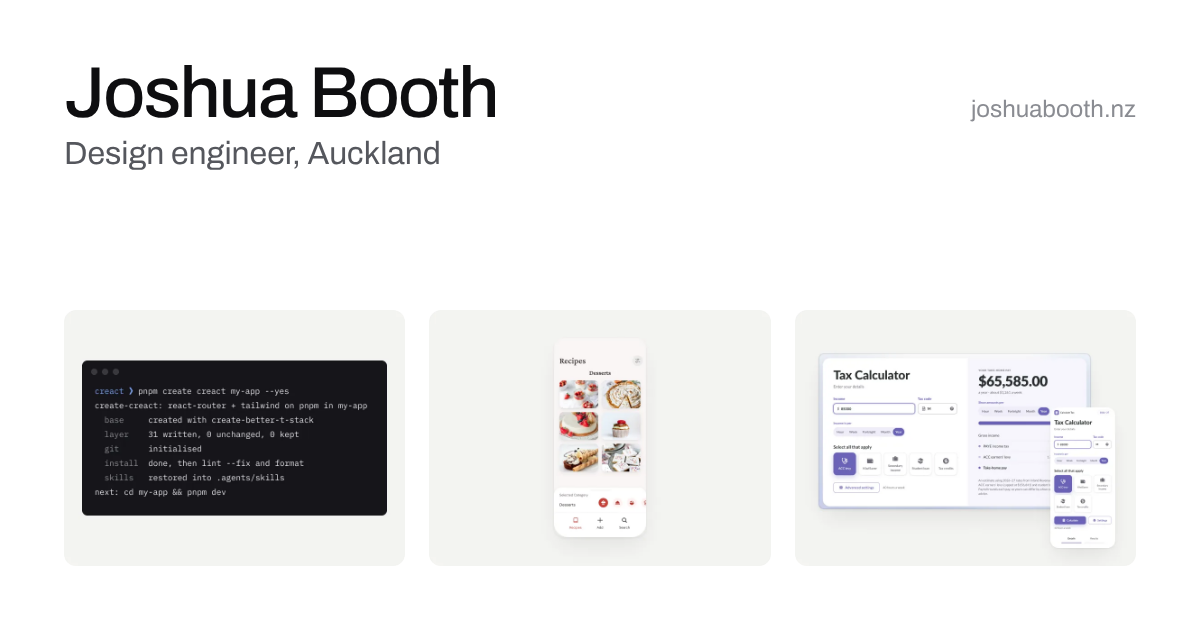
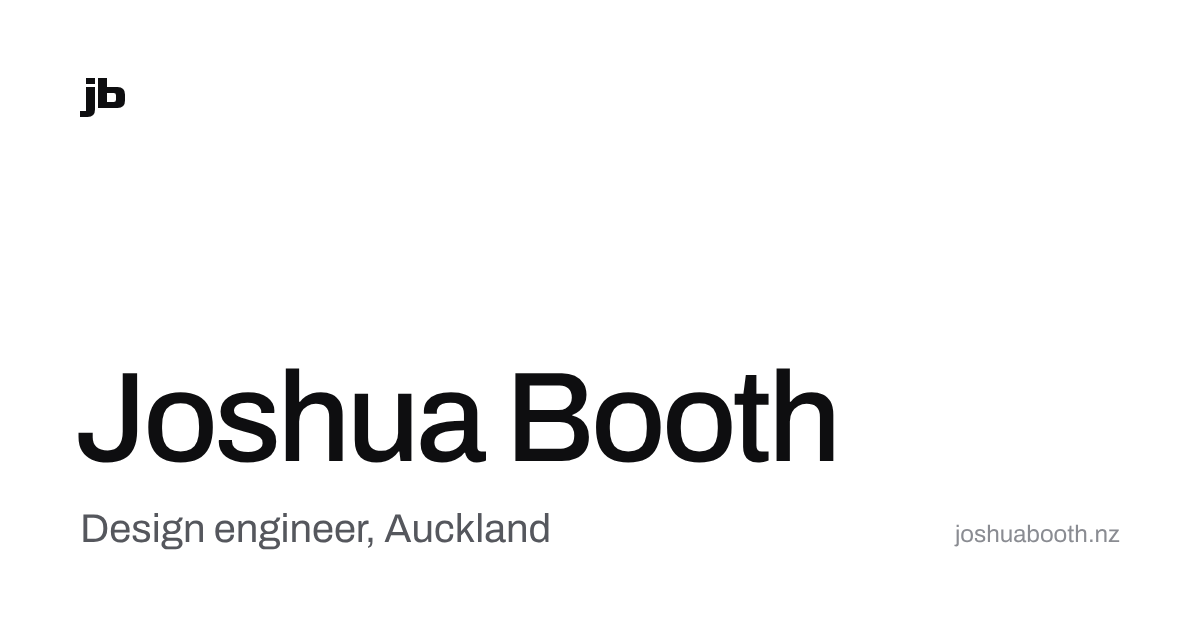
💄 make the redesign's share card type only
Josh preferred the name and role set large on white, with the jb mark,
over the version with three project pictures.

Claude-Session: https://claude.ai/code/session_01VTjs9TEwzoGGQgSHSXfGtF

diff --git a/scripts/og/og-white.html b/scripts/og/og-white.html
@@ -8,8 +8,8 @@
       href="https://fonts.googleapis.com/css2?family=Archivo:wght@400;500&display=block"
     />
     <style>
-      /* The redesign's share card: name, role and three project mats, in the
-         colours of shared/ui/white-look.ts */
+      /* The redesign's share card: the jb mark, then the name and role set
+         large, in the colours of shared/ui/white-look.ts */
       html,
       body {
         margin: 0;
@@ -20,7 +20,7 @@
         box-sizing: border-box;
         width: 1200px;
         height: 630px;
-        padding: 56px 64px 64px;
+        padding: 72px 80px 80px;
         display: flex;
         flex-direction: column;
         justify-content: space-between;
@@ -28,23 +28,30 @@
         color: #0e0e10;
       }
 
-      .top {
+      .mark {
+        display: block;
+        width: 48px;
+        height: 48px;
+        fill: #0e0e10;
+      }
+
+      h1 {
+        margin: 0 0 0 -6px;
+        font-size: 128px;
+        font-weight: 500;
+        line-height: 1;
+        letter-spacing: -0.03em;
+      }
+
+      .foot {
+        margin-top: 24px;
         display: flex;
         justify-content: space-between;
         align-items: baseline;
       }
 
-      h1 {
-        margin: 0;
-        font-size: 72px;
-        font-weight: 500;
-        line-height: 1.05;
-        letter-spacing: -0.025em;
-      }
-
       .role {
-        margin: 4px 0 0;
-        font-size: 32px;
+        font-size: 40px;
         color: #55575d;
       }
 
@@ -52,40 +59,29 @@
         font-size: 24px;
         color: #8a8c92;
       }
-
-      .mats {
-        display: grid;
-        grid-template-columns: repeat(3, 1fr);
-        gap: 24px;
-      }
-
-      .mats img {
-        display: block;
-        width: 100%;
-        aspect-ratio: 756 / 568;
-        border-radius: 12px;
-      }
     </style>
   </head>
   <body>
     <div class="card">
-      <div class="top">
-        <div>
-          <h1>Joshua Booth</h1>
-          <p class="role">Design engineer, Auckland</p>
+      <svg class="mark" viewBox="0 0 16 16" aria-hidden="true">
+        <path d="M2 2h3v2H2z" />
+        <path d="M2 5h3v7.5Q5 15 2.5 15H0v-2h2z" />
+        <path
+          fill-rule="evenodd"
+          d="M6 2h3v3h3.5Q15 5 15 7.5v2Q15 12 12.5 12H6zm3 5v3h2.25Q12 10 12 9.25v-1.5Q12 7 11.25 7z"
+        />
+      </svg>
+      <div>
+        <h1>Joshua Booth</h1>
+        <div class="foot">
+          <span class="role">Design engineer, Auckland</span>
+          <span class="url">joshuabooth.nz</span>
         </div>
-        <span class="url">joshuabooth.nz</span>
-      </div>
-      <div class="mats">
-        <img src="../../public/projects/creact.webp" alt="" />
-        <img src="../../public/projects/recipes.webp" alt="" />
-        <img src="../../public/projects/tax-calculator.webp" alt="" />
       </div>
     </div>
     <script type="module">
-      await document.fonts.load("500 72px Archivo");
-      await document.fonts.load("400 32px Archivo");
-      await Promise.all([...document.images].map((img) => img.decode()));
+      await document.fonts.load("500 128px Archivo");
+      await document.fonts.load("400 40px Archivo");
       document.body.dataset.ready = "true";
     </script>
   </body>

diff --git a/src/shared/lib/page-metadata.ts b/src/shared/lib/page-metadata.ts
@@ -43,7 +43,7 @@ const WHITE_CARD = {
   url: "/og-white.png",
   width: 1200,
   height: 630,
-  alt: "Joshua Booth, design engineer in Auckland, above pictures of three of his projects: creact in a terminal, the Recipes app and the Tax Calculator.",
+  alt: "Joshua Booth in large black type on white, with Design engineer, Auckland below and the jb mark above.",
 };
 
 /** The same metadata with the white look's share card, with the redesign on. */
